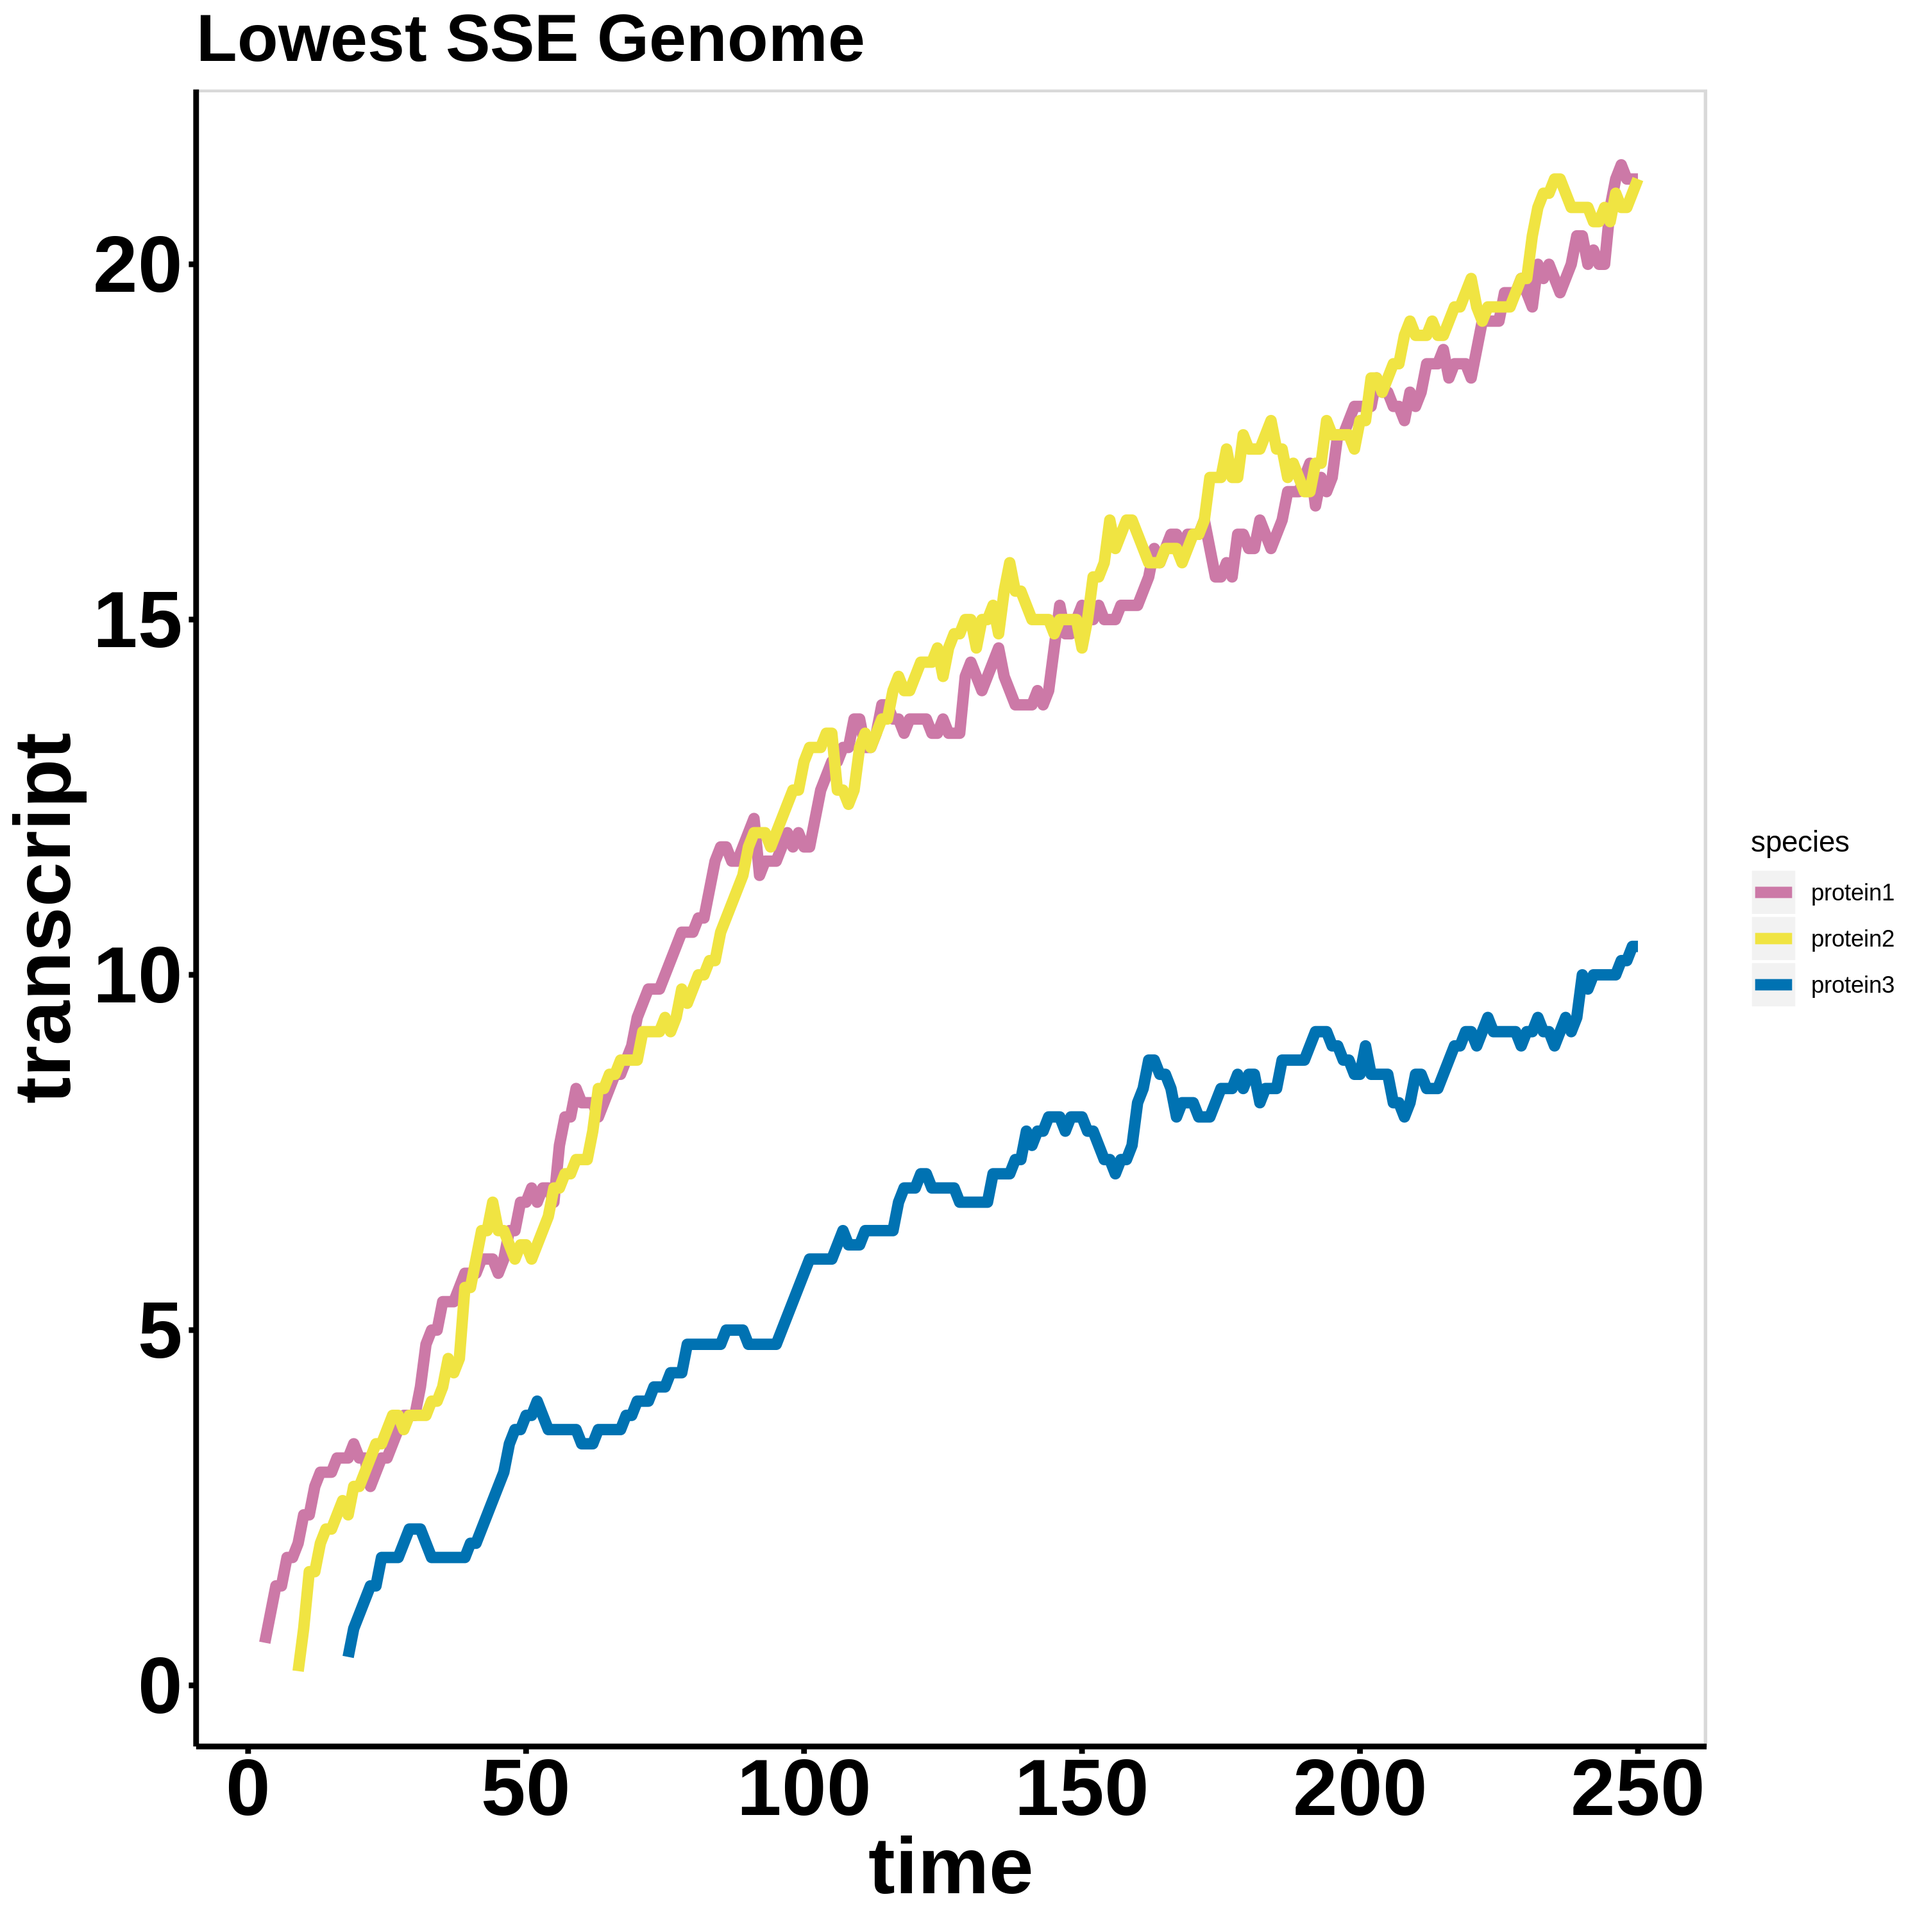
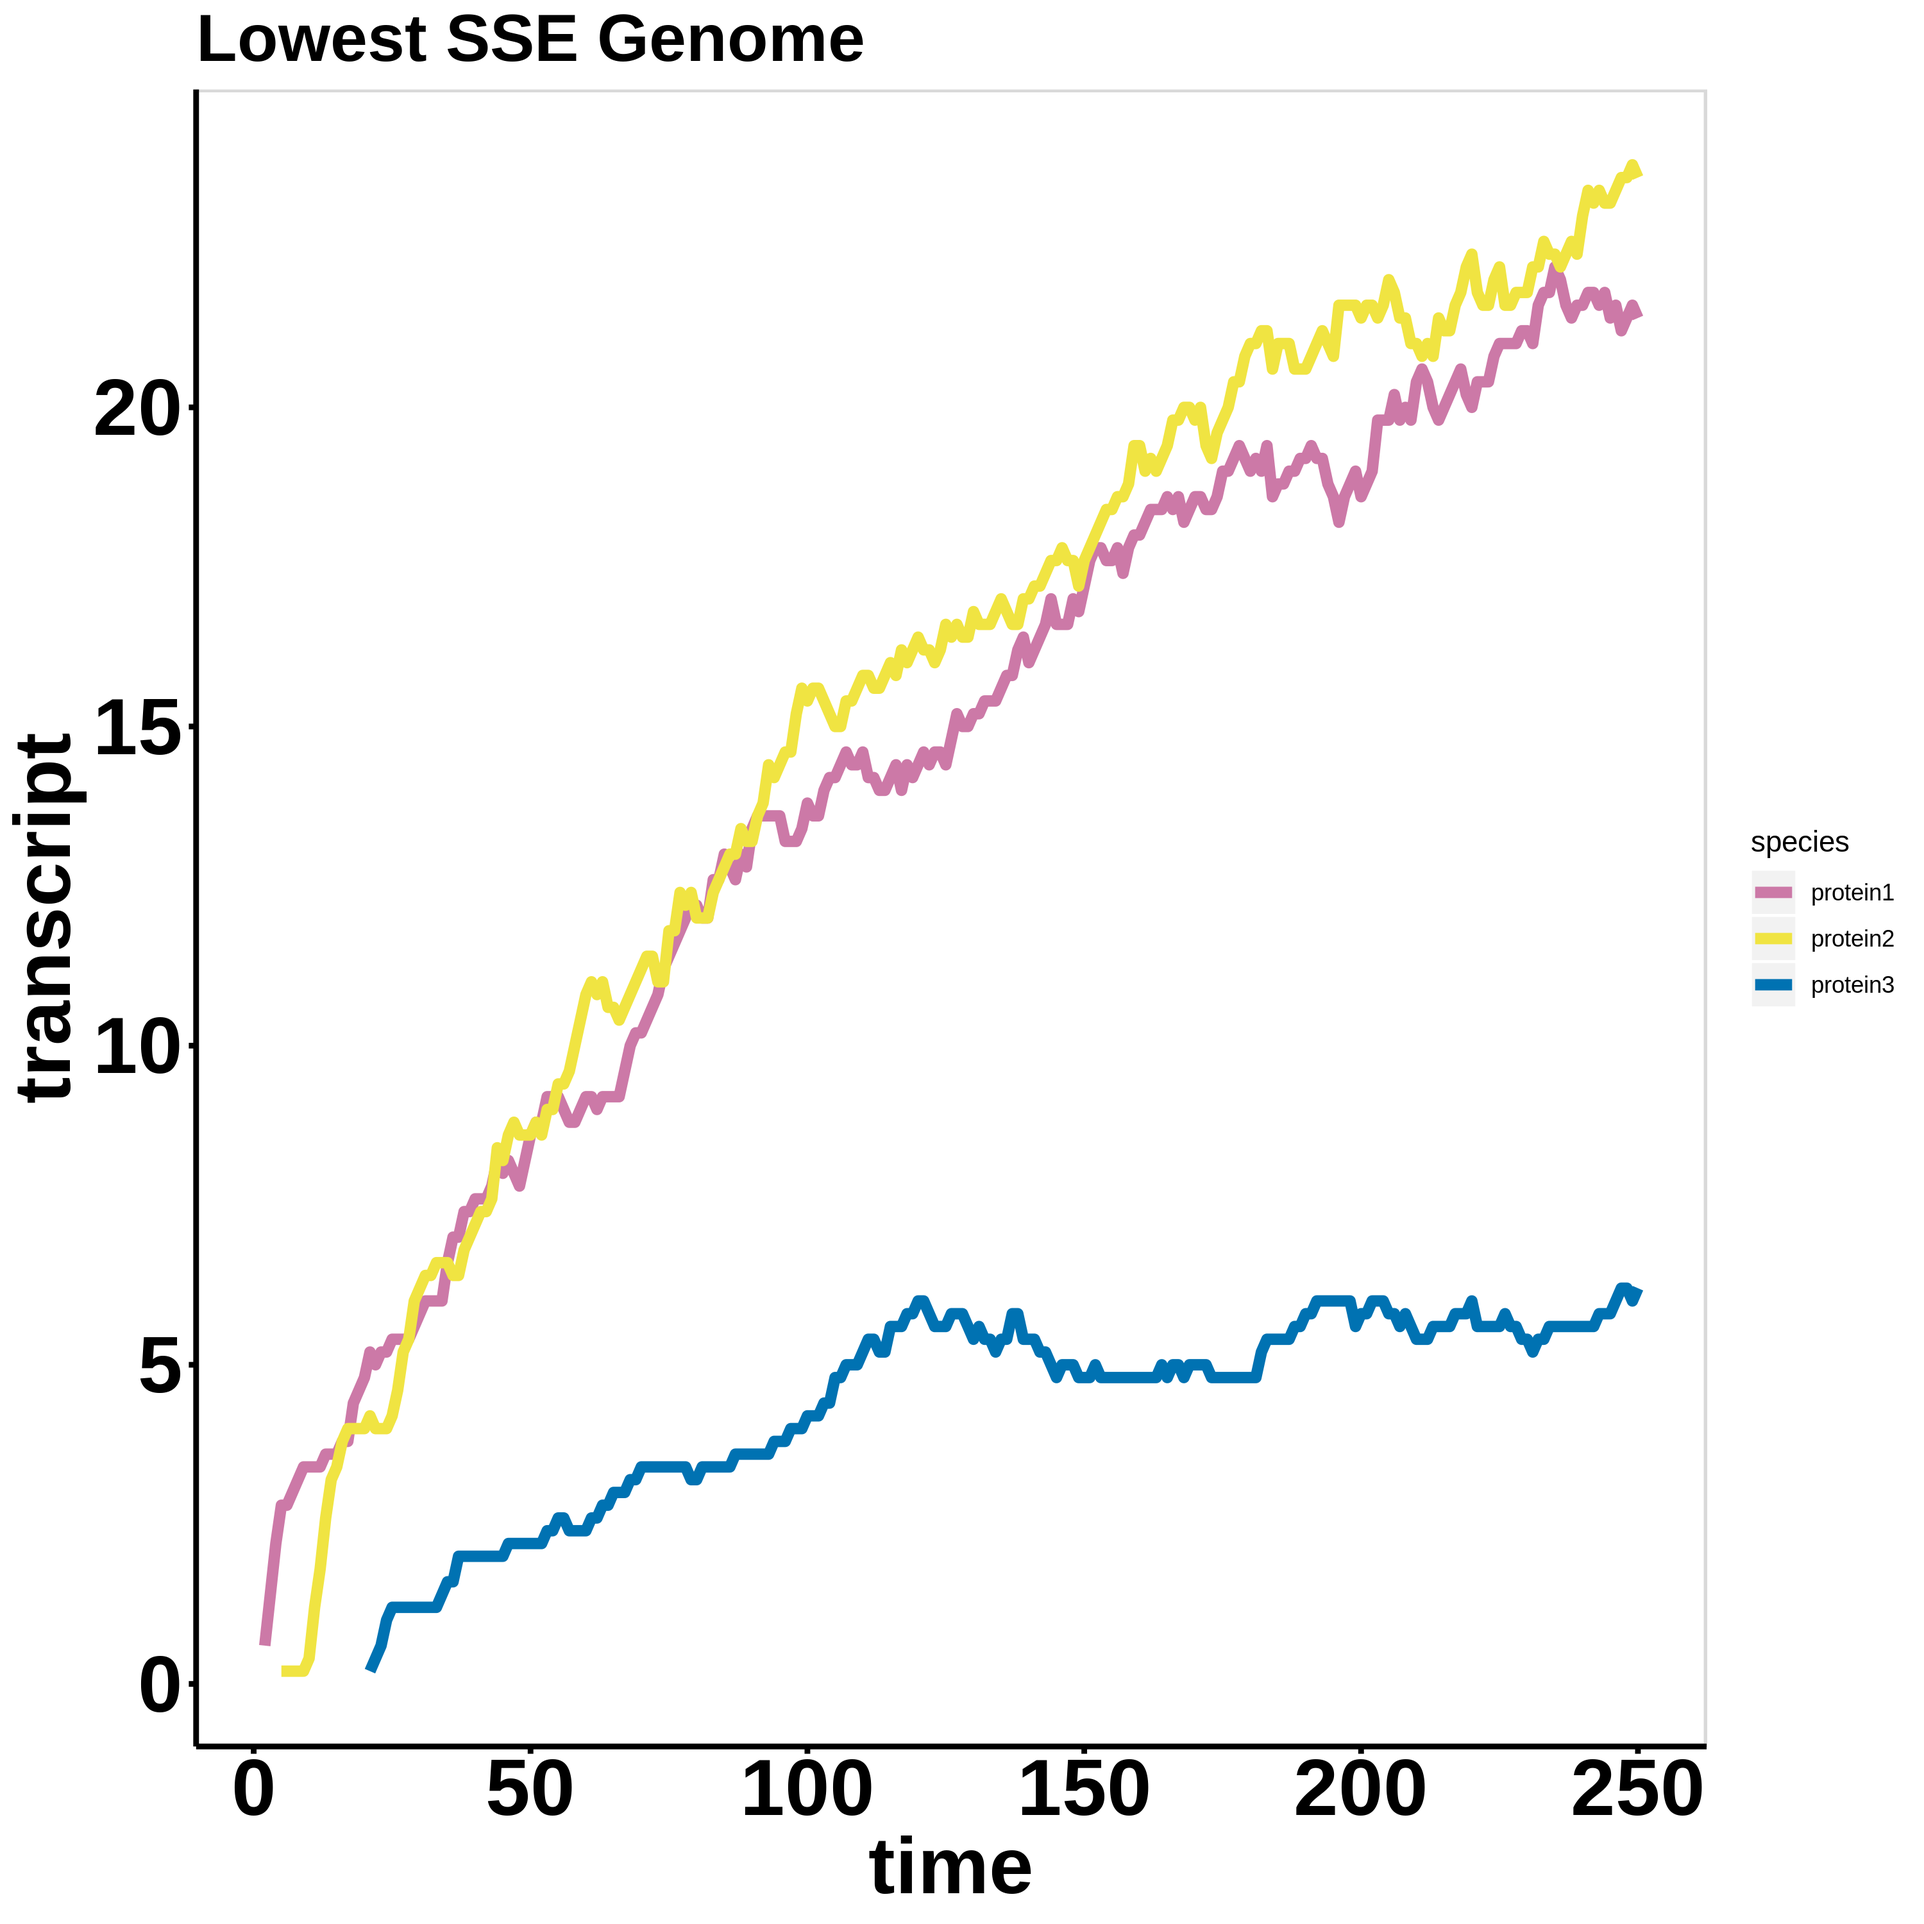
Fixed selected values in mutation_choices and ran simulations

diff --git a/src/python/lib/mutation_choices.py b/src/python/lib/mutation_choices.py
@@ -38,42 +38,24 @@ def add_element(genome_tracker_new, output_dir, num_genes, deg_rate, element_cho
     terminator = 'terminator_{}'.format(region_choice.split('_')[1])
     rnase = 'rnase_{}'.format(region_choice.split('_')[1])
     gene = 'gene_{}'.format(region_choice.split('_')[1])
+
     if int(region_choice.split('_')[1]) != num_genes:
         if genome_tracker_new[promoter]['start'] > 0:
             if region_choice != 'region_0':
                 genome_elements.append(genome_tracker_new[promoter]['start'])
-            if genome_tracker_new[region_choice]['stop'] - genome_tracker_new[promoter]['stop'] == 0:
-                genome_elements.append(genome_tracker_new[region_choice]['stop']+2)
-            elif genome_tracker_new[region_choice]['stop'] - genome_tracker_new[promoter]['stop'] == 1:
-                genome_elements.append(genome_tracker_new[region_choice]['stop'])
-            else:
-                genome_elements.append(genome_tracker_new[promoter]['stop'])
+            genome_elements.append(genome_tracker_new[promoter]['stop'])
         if genome_tracker_new[rnase]['start'] > 0:
             genome_elements.append(genome_tracker_new[rnase]['start'])
-            if genome_tracker_new[region_choice]['stop'] - genome_tracker_new[rnase]['stop'] == 0:
-                genome_elements.append(genome_tracker_new[region_choice]['stop']+2)
-            elif genome_tracker_new[region_choice]['stop'] - genome_tracker_new[rnase]['stop'] == 1:
-                genome_elements.append(genome_tracker_new[region_choice]['stop']+1)
-            else:
-                genome_elements.append(genome_tracker_new[rnase]['stop'])
-        if genome_tracker_new[region_choice]['start'] == genome_tracker_new[region_choice]['stop']:
-            genome_elements.append(genome_tracker_new[region_choice]['stop']+2)
-        else:
-            genome_elements.append(genome_tracker_new[region_choice]['stop']+1)
+            genome_elements.append(genome_tracker_new[rnase]['stop'])
     if region_choice != 'region_0':
-        genome_elements.append(genome_tracker_new[gene]['stop'])
+        genome_elements.append(genome_tracker_new[region_choice]['start'])
         if genome_tracker_new[terminator]['start'] > 0:
-            if genome_tracker_new[region_choice]['stop'] - genome_tracker_new[terminator]['stop'] == 0:
-                genome_elements.append(genome_tracker_new[region_choice]['stop']+2)
-                genome_shift+=1
-            elif genome_tracker_new[region_choice]['stop'] - genome_tracker_new[terminator]['stop'] == 1:
-                genome_elements.append(genome_tracker_new[region_choice]['stop'])
-            else:
-                genome_elements.append(genome_tracker_new[terminator]['stop'])
+            genome_elements.append(genome_tracker_new[terminator]['start'])
             if genome_tracker_new[terminator]['stop'] != genome_tracker_new['length_of_genome']:
                 genome_elements.append(genome_tracker_new[terminator]['stop'])
     if int(region_choice.split('_')[1]) == num_genes and genome_tracker_new[terminator]['stop'] != genome_tracker_new['length_of_genome']:
         genome_elements.append(genome_tracker_new['length_of_genome'])
+    genome_elements.append(genome_tracker_new[region_choice]['stop'])
 
     #Determines areas within the intergenic regions that are available
     space_index = 0
@@ -100,8 +82,10 @@ def add_element(genome_tracker_new, output_dir, num_genes, deg_rate, element_cho
         prom_stop = genome_tracker_new[element_choice]['stop'] = prom_start + promoter_offset
         genome_tracker_new[element_choice]['previous_strength'] = genome_tracker_new[element_choice]['current_strength']
         genome_tracker_new[element_choice]['current_strength'] = promoter_starting_strength
-        genome_shift = check_overlap(genome_tracker_new, element_choice, region_choice, genome_shift)
         genome_tracker_new = expand_genome(genome_tracker_new, num_genes, int(region_choice.split('_')[1]), genome_shift, element_choice)
+        genome_shift = check_overlap(genome_tracker_new, element_choice, region_choice)
+        if genome_shift != 0:
+            genome_tracker_new = expand_genome(genome_tracker_new, num_genes, int(region_choice.split('_')[1]), genome_shift, element_choice)
     elif 'terminator' in element_choice:
         #If terminator is chosen then the binding strength, and starting and endging positions are determined and the genome length is changed appropriately
         genome_shift = terminator_offset + 1
@@ -111,8 +95,10 @@ def add_element(genome_tracker_new, output_dir, num_genes, deg_rate, element_cho
         term_stop = genome_tracker_new[element_choice]['stop'] = term_start + terminator_offset
         genome_tracker_new[element_choice]['previous_strength'] = genome_tracker_new[element_choice]['current_strength']
         genome_tracker_new[element_choice]['current_strength'] = terminator_starting_strength
-        genome_shift = check_overlap(genome_tracker_new, element_choice, region_choice, genome_shift)
         genome_tracker_new = expand_genome(genome_tracker_new, num_genes, int(region_choice.split('_')[1]), genome_shift, element_choice)
+        genome_shift = check_overlap(genome_tracker_new, element_choice, region_choice)
+        if genome_shift != 0:
+            genome_tracker_new = expand_genome(genome_tracker_new, num_genes, int(region_choice.split('_')[1]), genome_shift, element_choice)
     else:
         #If RNase is chosen then the binding strength, and starting and endging positions are determined and the genome length is changed appropriately
         genome_shift = rnase_offset + 1
@@ -120,11 +106,12 @@ def add_element(genome_tracker_new, output_dir, num_genes, deg_rate, element_cho
             ending_position+=1
         rnase_start = genome_tracker_new[element_choice]['start'] = random.randint(starting_position+1, ending_position)
         rnase_stop = genome_tracker_new[element_choice]['stop'] = rnase_start + rnase_offset
-        if deg_rate:
-            genome_tracker_new[element_choice]['previous_strength'] = genome_tracker_new[element_choice]['current_strength']
-            genome_tracker_new[element_choice]['current_strength'] = rnase_starting_strength
-        genome_shift = check_overlap(genome_tracker_new, element_choice, region_choice, genome_shift)
+        genome_tracker_new[element_choice]['previous_strength'] = genome_tracker_new[element_choice]['current_strength']
+        genome_tracker_new[element_choice]['current_strength'] = rnase_starting_strength
         genome_tracker_new = expand_genome(genome_tracker_new, num_genes, int(region_choice.split('_')[1]), genome_shift, element_choice)
+        genome_shift = check_overlap(genome_tracker_new, element_choice, region_choice)
+        if genome_shift != 0:
+            genome_tracker_new = expand_genome(genome_tracker_new, num_genes, int(region_choice.split('_')[1]), genome_shift, element_choice)
 
     return genome_tracker_new
 
@@ -144,10 +131,8 @@ def remove_element(genome_tracker_new, output_dir, num_genes, deg_rate, element_
     genome_tracker_new = shrink_genome(genome_tracker_new, num_genes, int(region_choice.split('_')[1]), genome_shift, element_choice)
     genome_tracker_new[element_choice]['start'] = 0
     genome_tracker_new[element_choice]['stop'] = 0
-    #If modifying each individual RNase site, then the strength is set to 0
-    if (deg_rate) or (deg_rate == False and 'rnase' not in element_choice):
-        genome_tracker_new[element_choice]['previous_strength'] = genome_tracker_new[element_choice]['current_strength']
-        genome_tracker_new[element_choice]['current_strength'] = 0
+    genome_tracker_new[element_choice]['previous_strength'] = genome_tracker_new[element_choice]['current_strength']
+    genome_tracker_new[element_choice]['current_strength'] = 0
 
     return genome_tracker_new
 
@@ -251,7 +236,7 @@ def shrink_genome(genome_tracker_new, num_genes, region_choice, genome_shift, el
 
     return genome_tracker_new
 
-def check_overlap(genome_tracker_new, element_choice, region_choice, genome_shift):
+def check_overlap(genome_tracker_new, element_choice, region_choice):
     """
     Determines if there are any overlapping regions and if so, increases the amount of base pairs the genome should be offestted by.
     """
@@ -297,13 +282,12 @@ def check_overlap(genome_tracker_new, element_choice, region_choice, genome_shif
     if int(region_choice.split('_')[1]) != genome_tracker_new['num_genes']:
         if genome_tracker_new[element_choice]['stop'] >= genome_tracker_new[region_choice]['stop']:
             genome_shift_new+=(genome_tracker_new[element_choice]['stop'] - genome_tracker_new[region_choice]['stop']) + 1
-            genome_shift+=(genome_tracker_new[element_choice]['stop'] - genome_tracker_new[region_choice]['stop']) + 1
 
     #If the amount of base pairs to shift the genome based on overlapping elements in less than the amount of base pairs the element occupies, then the lesser of the two is applied
-    if genome_shift_new < genome_shift and genome_shift_new != 0:
+    if genome_shift_new != 0:
         return genome_shift_new
     else:
-        return genome_shift
+        return 0
 
 
 def cleanup_genome(target_file, sse_df, output_dir, num_genes, deg_rate):

diff --git a/src/python/input_files/random_data_generator.py b/src/python/input_files/random_data_generator.py
@@ -7,18 +7,18 @@ protein1_list = []
 protein2_list = []
 protein3_list = []
 
-for i in range(1, 151):
-    transcript_list.append([i, "protein1", (0.04 * i)])
-    transcript_list.append([i, "protein2", (0.11 * i)])
-    transcript_list.append([i, "protein3", (0.16 * i)])
-    if i == 150:
+for i in range(1, 101):
+    transcript_list.append([i, "protein1", (0.1 * i)])
+    transcript_list.append([i, "protein2", (0.2 * i)])
+    transcript_list.append([i, "protein3", (0.05 * i)])
+    if i == 100:
         protein1_list.append(0.04 * i)
-        protein2_list.append(0.11 * i)
-        protein3_list.append(0.16 * i)
-for i in range(151, 251):
-    transcript_list.append([i, "protein1", 0.04 * i])
+        protein2_list.append(0.2 * i)
+        protein3_list.append(0.05 * i)
+for i in range(101, 251):
+    transcript_list.append([i, "protein1", 0.1 * i])
     transcript_list.append([i, "protein2", protein2_list[-1]])
-    transcript_list.append([i, "protein3", 0.16 * i])
+    transcript_list.append([i, "protein3", protein3_list[-1]])
 # for i in range(126, 201):
 #     transcript_list.append([i, "protein1", (0.12 * i)])
 #     transcript_list.append([i, "protein2", protein2_list[-1]])
@@ -47,7 +47,7 @@ for i in range(151, 251):
 
 
 
-file = open("../../../data/paper_data12.tsv", "w")
+file = open("../../../data/paper_data13.tsv", "w")
 writer = csv.writer(file, delimiter='\t')
 writer.writerow(["time", "species", "transcript"])
 for item in transcript_list:
